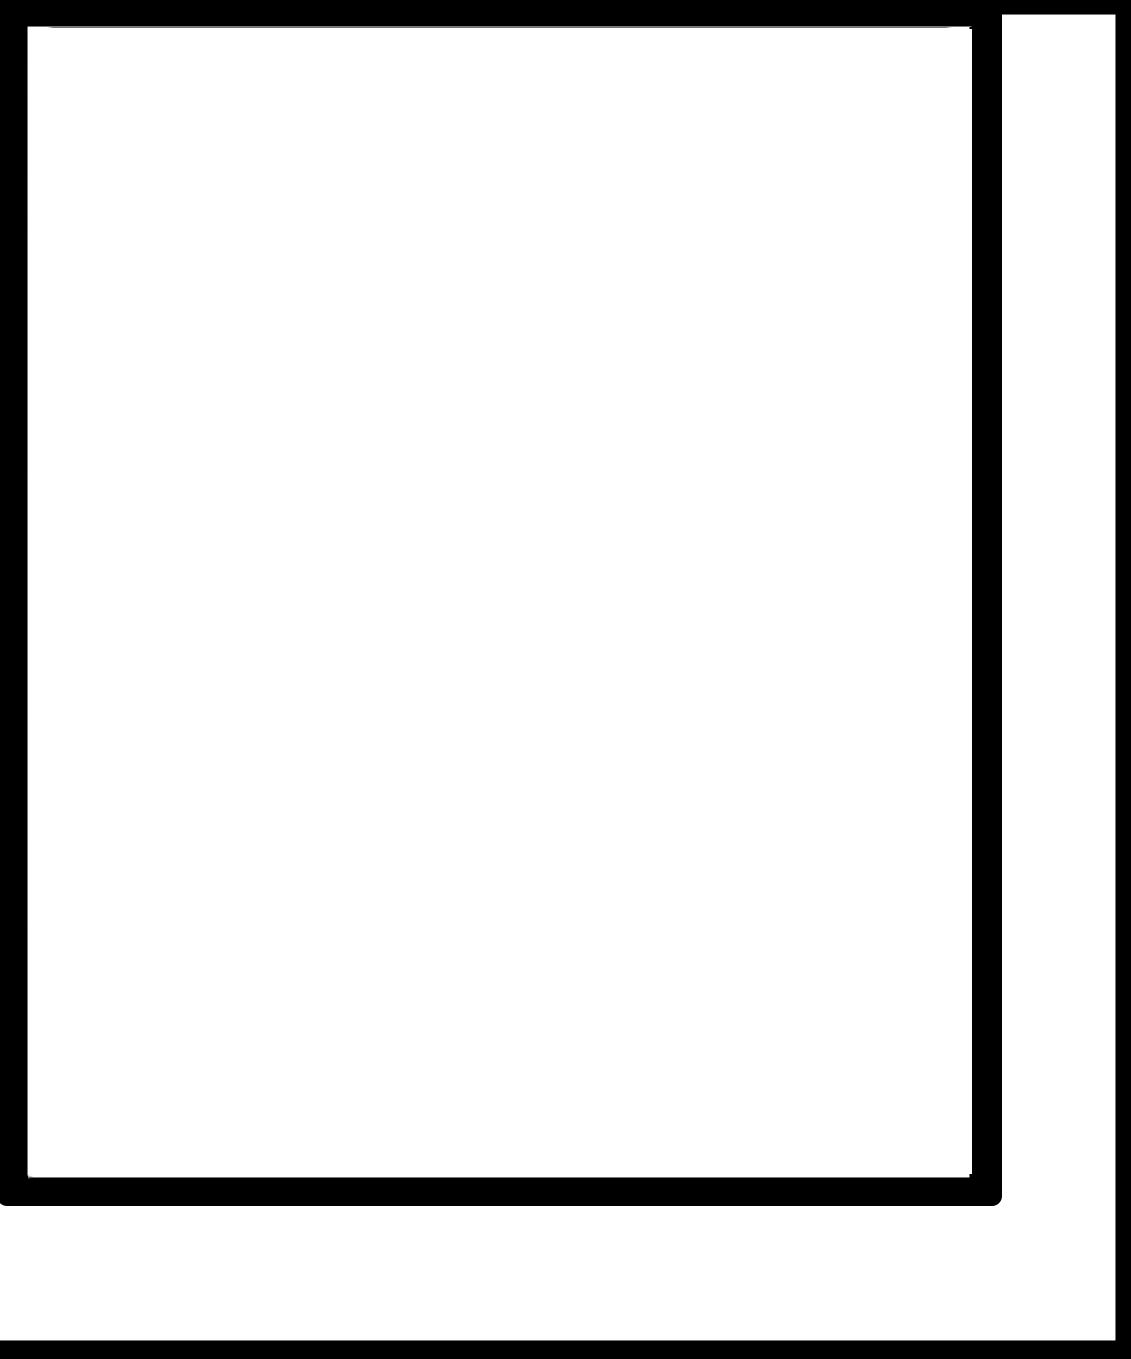
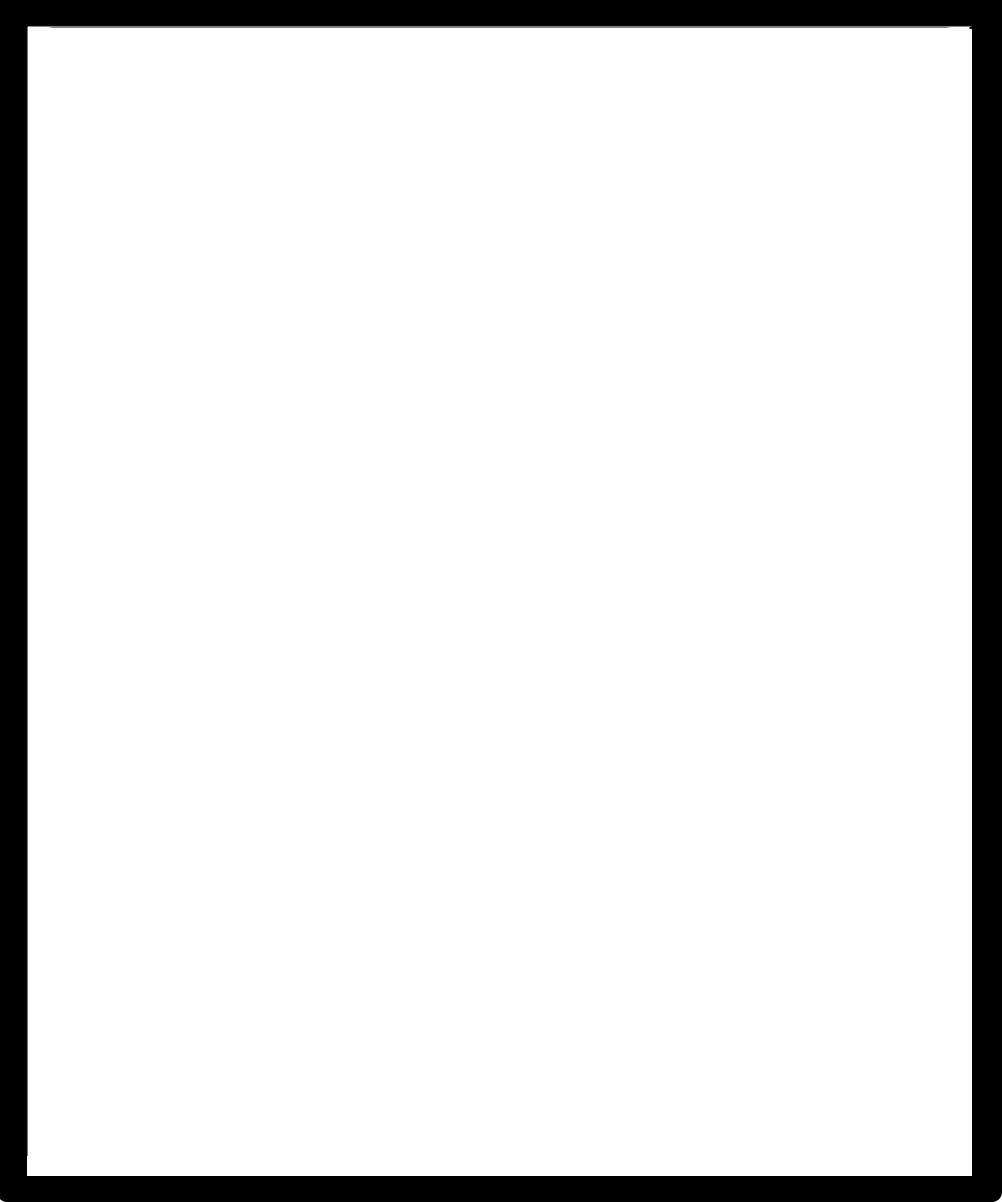
making layout and images responsive.

Changed region(s): [[0.0, 0.0, 1.0, 1.0]]

diff --git a/css/style.css b/css/style.css
@@ -1,63 +1,9 @@
 body {
 	background-color: #C6F600;
+	padding:10px;
 }
 
-#content {
-	width:92%;
-	height:960px;
-	background-color:#BADA55;
-	margin-left:40px;
-	position:relative;
-}
-#container {
-	width:1080px;
-	height:1960px;
-	background-image: url(../images/blueframe.jpg);
-	background-repeat: no-repeat;
-	position:relative;
-}
-
-#logo {
-	background-color:#000;
-	height:75px;
-	width:1074px;
-	border:solid #fff 3px;
-	color:#fff;
-}
-
-#background{
-	height:2000px;
-	width:1000px;
-	position:absolute;
-	background:url(../images/mtnclear2.jpg) no-repeat;
-}
-
-#credits {
-	background-color: #666;
-	height: 50px;
-	width: 1080px;
-	position: absolute;
-	background-position: 0px 0px;
-	top: 237%;
-}
-
-.nav {
-	position:fixed;
-	z-index: 10;
-}
-
-.fixed {
-	position:fixed;
-}
-
-#menu {
-	float:left;
-	margin-top:110px;
-	background-color:#fff;
-	width:1080;
-	height:30px;
-	margin-left:15px;
-}
+/*navigation*/
 
 .elit {
 	height:50px;
@@ -73,7 +19,8 @@ body {
 }
 
 ul.nav {
-	width:1066px;
+	max-width:1066px;
+	width:95.4%;
 	height:30px;
 	list-style:none;
 	overflow:hidden;
@@ -114,9 +61,105 @@ ul.nav li a.ipsum:hover, ul.nav li a.ipsum:focus {
 	 background-position: 0 -30px;
  }
 
+.nav {
+	position:fixed;
+	z-index: 10;
+}
+
+.fixed {
+	position:fixed;
+}
+
+
+/*content*/
+
+#logo {
+	background-color:#000;
+	height:75px;
+	width:1074px;
+	border:solid #fff 3px;
+	color:#fff;
+}
+
+#container {
+	max-width:1080px;
+	width:100%;
+	height:1960px;
+	background-image: url(../images/blueframe.jpg);
+	background-repeat: no-repeat;
+	position:relative;
+}
+
+#content {
+	width:92%;
+	height:960px;
+	background-color:#BADA55;
+	margin-left:40px;
+	position:relative;
+}
+
+#background{
+	height:2000px;
+	width:100%;
+	position:absolute;
+	background:url(../images/mtnclear2.jpg) no-repeat;
+}
+
+#frame {
+		height:100%;
+		max-width:1000px;
+		width:100%;
+		background-image:url('');
+		background-repeat:no-repeat;
+		background-position: 0 0px;
+		position:absolute;
+		margin-top:0px;
+		transition: all 1.0s linear;
+		transform-style: preserve-3d;
+		perspective:100;
+		background-image: url(../images/frame2.png);
+		opacity:1;
+		z-index: 3;
+}
+#frame img {
+	width: 100%;
+}
+
+#pagetwo-header {
+	height:83px;
+	width:100%;
+	background-color:black;
+	border: 3px solid #fff;
+	position: absolute;
+	top:88.9%;
+	opacity:0;
+}
+
+
+
+
+#credits {
+	background-color: #666;
+	height: 50px;
+	width: 1080px;
+	position: absolute;
+	background-position: 0px 0px;
+	top: 237%;
+}
+
+#menu {
+	float:left;
+	margin-top:110px;
+	background-color:#fff;
+	width:1080;
+	height:30px;
+	margin-left:15px;
+}
+
 #page1 {
 		height:960px;
 		max-width:1000px;
+		width:100%;
 		background-image:url('');
 		background-repeat: no-repeat;
 		background-position: 0 0px;
@@ -128,25 +171,17 @@ ul.nav li a.ipsum:hover, ul.nav li a.ipsum:focus {
 }
 #vid-box {
 	height:110px;
-	width:1000px;
+	width:100%;
 	background-color:#37FDFC;
 	position: absolute;
 	top:105%;
 }
 
-#pagetwo-header {
-	height:83px;
-	width:1000px;
-	background-color:black;
-	border: 3px solid #fff;
-	position: absolute;
-	top:88.9%;
-	opacity:0;
-}
+
 
 #textboxtwo {
 	height:210px;
-	width:800px;
+	width:80%;
 	background-color:#fff;
 	position: absolute;
 	top:165%;
@@ -182,7 +217,7 @@ ul.nav li a.ipsum:hover, ul.nav li a.ipsum:focus {
 }*/
 #page3 {
 		height:960px;
-		width:1000px;
+		width:100%;
 		background-image:url('');
 		background-repeat:no-repeat;
 		background-position: 0 0px;
@@ -195,24 +230,11 @@ ul.nav li a.ipsum:hover, ul.nav li a.ipsum:focus {
 		background-image: url(../images/frameborder.jpg);
 		opacity:1;
 }
-#frame {
-		height:960px;
-		width:1000px;
-		background-image:url('');
-		background-repeat:no-repeat;
-		background-position: 0 0px;
-		position:absolute;
-		margin-top:0px;
-		transition: all 1.0s linear;
-		transform-style: preserve-3d;
-		perspective:100;
-		background-image: url(../images/frame2.png);
-		opacity:1;
-		z-index: 3;
-}
+
 #page3initial {
 		height:378px;
-		width:662px;
+		max-width:662px;
+		width:70.6%;
 		background-image:url('');
 		background-repeat:no-repeat;
 		background-position: 0 0px;
@@ -227,7 +249,7 @@ ul.nav li a.ipsum:hover, ul.nav li a.ipsum:focus {
 }
 #textboxone {
 		height:329px;
-		width:1000px;
+		width:100%;
 		background-image:url('');
 		background-repeat:no-repeat;
 		background-position: 0 0px;
@@ -241,7 +263,8 @@ ul.nav li a.ipsum:hover, ul.nav li a.ipsum:focus {
 }
 #textbox {
 		height:315px;
-		width:1000px;
+		max-width:1000px;
+		width:101%;
 		background-image:url('');
 		background-repeat:no-repeat;
 		background-position: 0 0px;
@@ -255,7 +278,8 @@ ul.nav li a.ipsum:hover, ul.nav li a.ipsum:focus {
 }
 #textboxoverlay {
 		height:315px;
-		width:1000px;
+		max-width:1000px;
+		width:100%;
 		background-image:url('');
 		background-repeat:no-repeat;
 		background-position: 0 0px;

diff --git a/index.html b/index.html
@@ -25,11 +25,13 @@
 <body>
 hi body.
 	<div id="container">
+
 		<div id="content">
 
 			
 			<div id="background"></div>
 			<div id="frame">
+				<img src="images/frame2.png">
 				<div id="pagetwo-header"></div>
 			</div>
 
@@ -46,7 +48,6 @@ hi body.
 
 			<section id="page3"></section>
 
-			<div id="pagetwo-header"></div>
 
 			<div id="vid-box"></div>
 			
